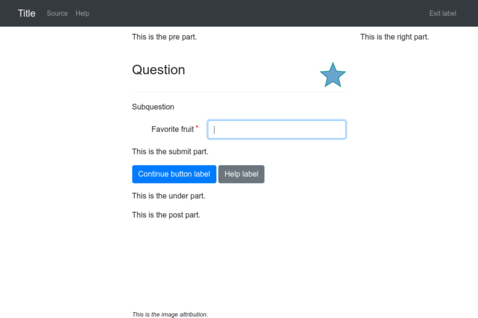
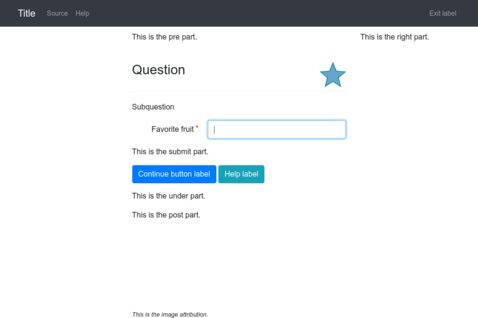
changelog; progress method

Changed region(s): [[0.4393, 0.5094, 0.5565, 0.5943]]

diff --git a/_docs/initial.md b/_docs/initial.md
@@ -1267,6 +1267,48 @@ progress bar percentage: True`:
 
 {% include side-by-side.html demo="progress-features-percentage" %}
 
+By default, if you do not set the [`progress`] modifier on a
+[`question`], then each time the user takes a step, the progress bar
+will advance 5% of the way toward the end.
+
+The 5% figure is known as the `progress bar multiplier` and it is
+configurable:
+
+{% highlight yaml %}
+features:
+  progress bar: True
+  progress bar multiplier: 0.01
+{% endhighlight %}
+
+The default is 0.05. 
+
+If you set `progress bar method: stepped`, the progress bar advances a
+different way when there is no [`progress`] modifier.
+
+{% highlight yaml %}
+features:
+  progress bar: True
+  progress bar method: stepped
+{% endhighlight %}
+
+Instead of advancing toward 100%, it advances toward the next greatest
+[`progress`] value that is defined on a [`question`] in the interview.
+(Note that **docassemble** cannot predict the future, so whether the
+[`question`] with the next highest [`progress`] value will actually be
+reached is unknown; **docassemble** just looks at all the
+[`question`]s in the interview that have [`progress`] values defined.)
+The amount by which it advances is determined by `progress bar
+multiplier`.
+
+To use the default method for advancing the progress bar, omit
+`progress bar method`, or set it to `default`.
+
+{% highlight yaml %}
+features:
+  progress bar: True
+  progress bar method: default
+{% endhighlight %}
+
 ## <a name="navigation bar"></a>Navigation bar
 
 The `navigation` feature controls whether a navigation bar is

diff --git a/_docs/changelog.md b/_docs/changelog.md
@@ -4,10 +4,18 @@ title: Change Log
 short_title: Change Log
 ---
 
-## [0.4.23](https://github.com/jhpyle/docassemble/releases/tag/v0.4.23) - 2019-03-
+## [0.4.23](https://github.com/jhpyle/docassemble/releases/tag/v0.4.23) - 2019-03-19
+
+### Added
+- The `progress bar multiplier` and `progress bar method` features.
 
 ### Changed
 - Embedded blocks can use generic objects and iterators.
+- Help buttons are now "info" color instead of "secondary" color.
+
+### Fixed
+- Error when uploading files through the API.
+- Error resulting from `add_action()` under some circumstances.
 
 ## [0.4.22](https://github.com/jhpyle/docassemble/releases/tag/v0.4.22) - 2019-03-17
 
